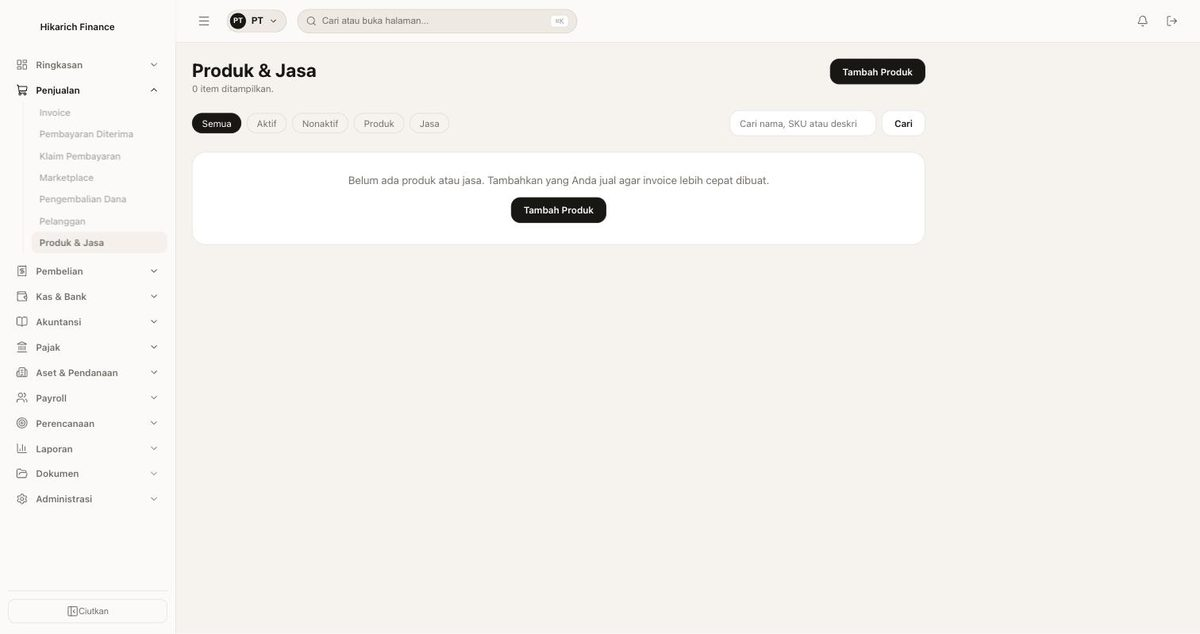
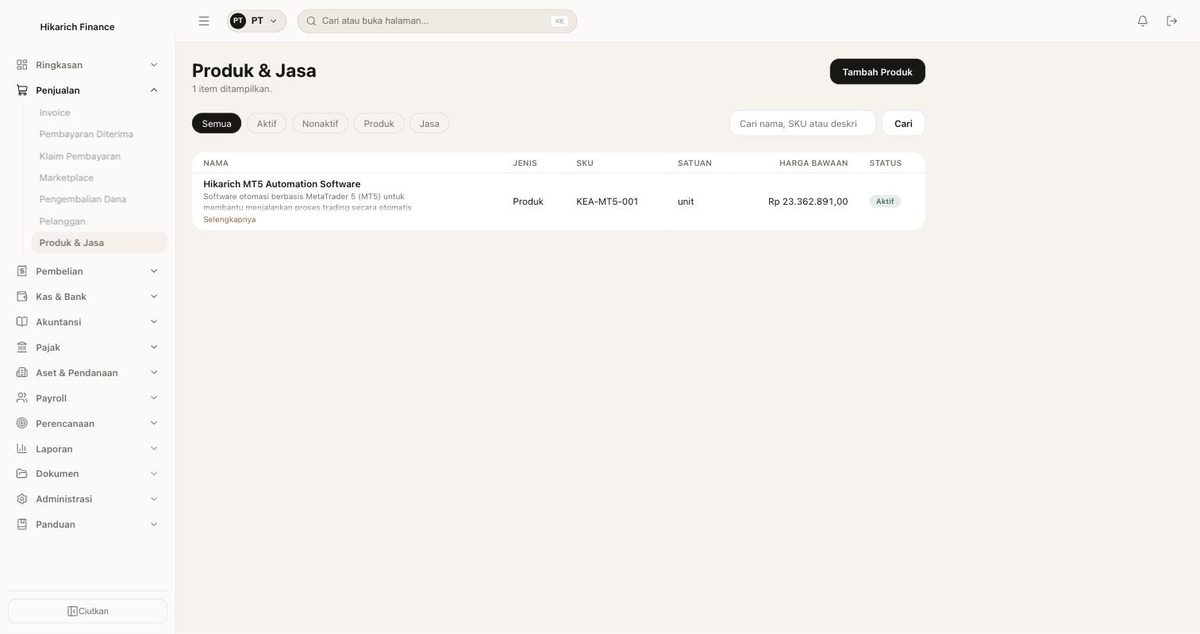
Panduan produk: tangkapan layar baru dan kotak centang Aktif rapi di form Ubah (lanjutan keputusan 301) (#140)
- Kotak centang "Aktif" di form produk tampil di atas labelnya karena aturan label form menimpa aturan
  checkbox; sekarang tetap satu baris.
- Panduan "Cara Menambah Produk dan Jasa": tangkapan layar daftar compact dan halaman detail baru.

Claude-Session: https://claude.ai/code/session_01PKw5oGBN6qhUiYVcbqNS8P

diff --git a/src/app/globals.css b/src/app/globals.css
@@ -2322,11 +2322,17 @@ a.kpi-card:hover {
   resize: vertical;
 }
 
-.checkbox-field {
+.checkbox-field,
+.record-form label.checkbox-field {
   display: flex;
   flex-direction: row;
   align-items: center;
   gap: var(--space-2);
+}
+
+.record-form label.checkbox-field input {
+  width: auto;
+  flex: none;
 }
 
 /* Budget/Revenue Target "set lines" editable grid (P13 Part 3h, fifth increment): a month x category grid

diff --git a/docs/DECISIONS.md b/docs/DECISIONS.md
@@ -2239,3 +2239,8 @@ e.timezone)::date` (`20260923100100_p5_sales_invoices.sql`) -- the **Entity's ow
   the same way customers and vendors already work. Tambah Produk was already its own page
   (`/sales/products/new`) and stays so. No change to data, accounting, tax or authorization. The guide "Cara
   Menambah Produk dan Jasa" describes the new flow; its screenshots are retaken after this is live.
+
+- Follow-up to decision 301 (6 October 2026, task 95). The product edit form's "Aktif" checkbox sat centred above
+  its label because the generic form-label rule outranked the checkbox rule; a checkbox field now stays a row.
+  The guide "Cara Menambah Produk dan Jasa" has retaken screenshots of the compact list and the new read-only
+  detail page. Open: none for tasks 94 and 95.
